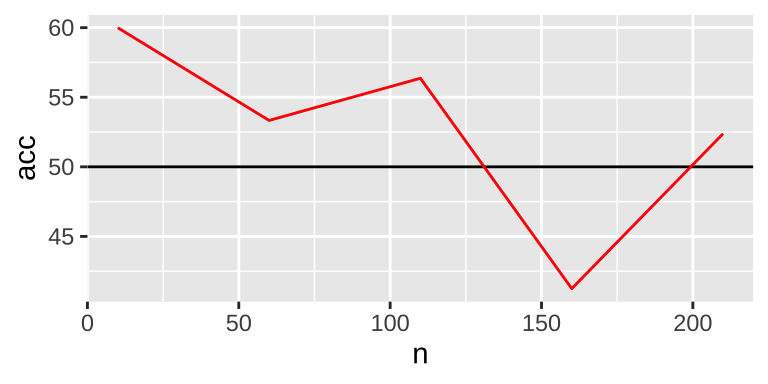
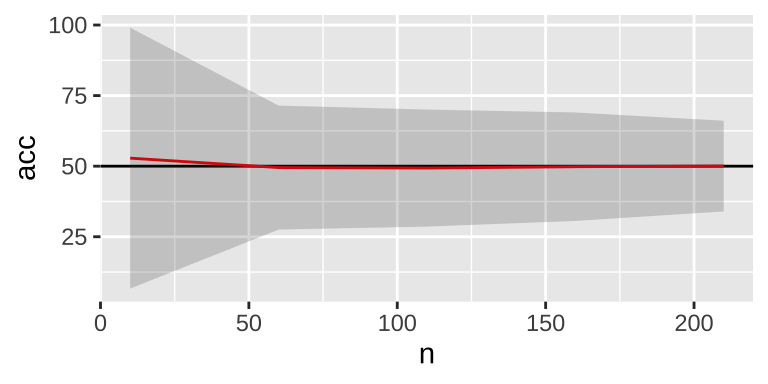
fix seed problem

diff --git a/content/post/2021-09-27-below-chance-accuracy-in-mvpa.html b/content/post/2021-09-27-below-chance-accuracy-in-mvpa.html
@@ -33,11 +33,12 @@ output:
 library(&quot;dplyr&quot;)
 library(&quot;e1071&quot;)
 # --------training function ---------
-f_train &lt;- function(n, nv = 2,
-                    r=F, c=n) {
+f_train &lt;- function(n, s = 1,
+                    r = F, c = n) {
   # nv: number of features
+  nv &lt;- 2
   # n: number of observations
-  set.seed(1)
+  set.seed(s)
   # generate random data
   rNum &lt;- rnorm(nv * n)
   rNum &lt;- matrix(rNum, n, nv)
@@ -69,20 +70,20 @@ p &lt;- expand.grid(iTest = 1:200,
                  n = seq(10, 210, 50))
 data_test &lt;- p %&gt;%
   group_by(iTest, n) %&gt;%
-  do(data.frame(acc = f_train(.$n)))</code></pre>
+  do(data.frame(acc = f_train(.$n,.$iTest)))</code></pre>
 <p><img src="/post/2021-09-27-below-chance-accuracy-in-mvpa_files/figure-html/plot_data-1.png" width="384" style="display: block; margin: auto;" /></p>
 <p>As the sample size increases, variability decreases, and the mean accuracy tends to be 50%. However, there is a persistent small down bias on average, which can be eliminated using sampling with replacement.</p>
 <pre class="r"><code># with replacement, leave one out
 data_test &lt;- p %&gt;%
   group_by(iTest, n) %&gt;%
-  do(data.frame(acc = f_train(.$n,
+  do(data.frame(acc = f_train(.$n,.$iTest,
                               r = T)))</code></pre>
 <p><img src="/post/2021-09-27-below-chance-accuracy-in-mvpa_files/figure-html/unnamed-chunk-5-1.png" width="384" style="display: block; margin: auto;" /></p>
 <p>In addition, change to 10-fold cross validation may also decrease the variability.</p>
 <pre class="r"><code># with replacement, 10-fold cross validation
 data_test &lt;- p %&gt;%
   group_by(iTest, n) %&gt;%
-  do(data.frame(acc = f_train(.$n,
+  do(data.frame(acc = f_train(.$n,.$iTest,
                               r = F, c=10)))</code></pre>
 <p><img src="/post/2021-09-27-below-chance-accuracy-in-mvpa_files/figure-html/unnamed-chunk-7-1.png" width="384" style="display: block; margin: auto;" /></p>
 <p>Some references:</p>
